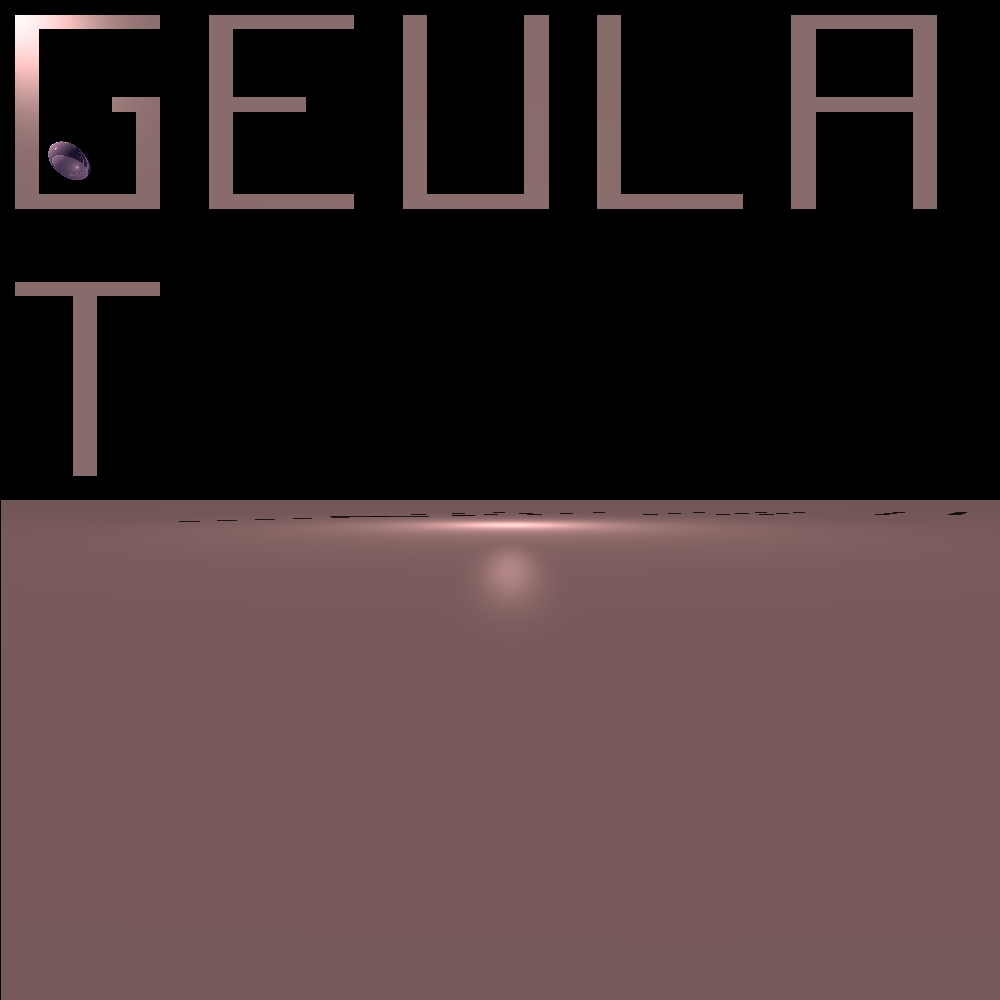
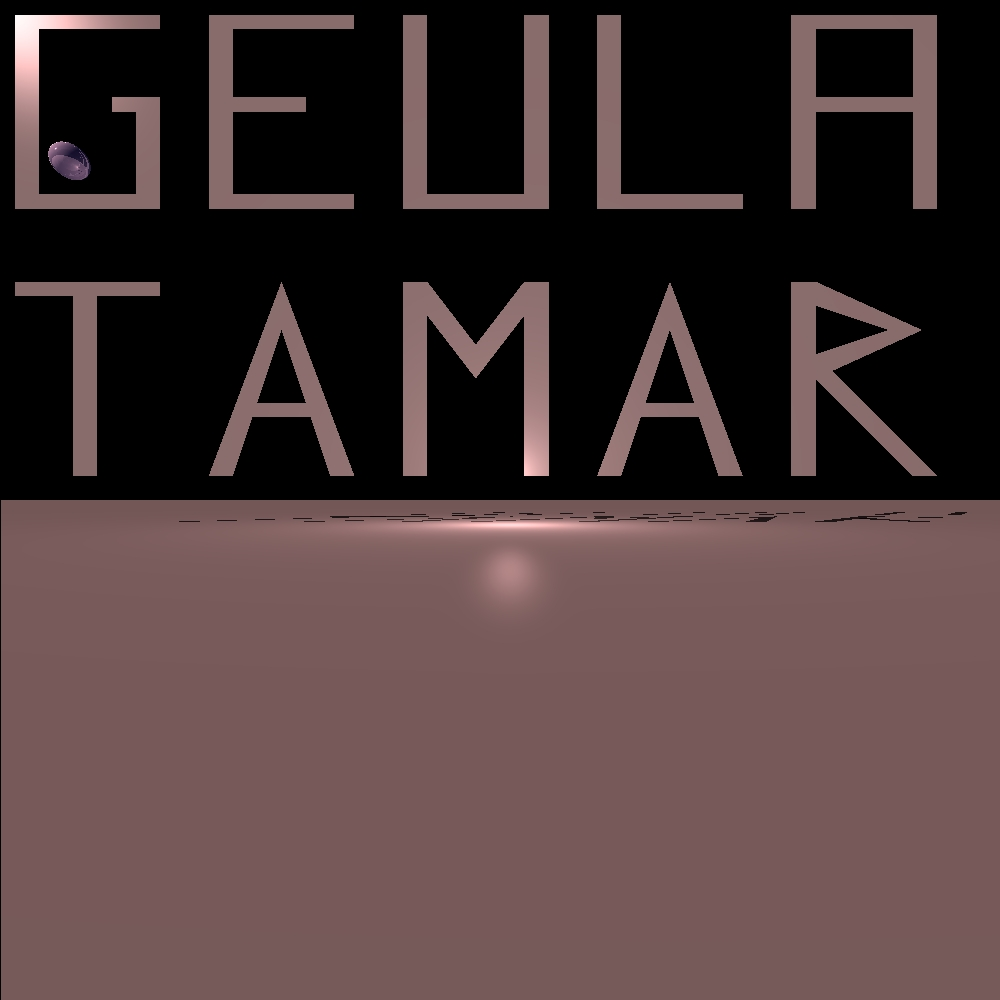
Mini Project 2 Name "TAMAR"

diff --git a/MavoProject/src/unittests/MiniProject2.java b/MavoProject/src/unittests/MiniProject2.java
@@ -167,7 +167,7 @@ public class MiniProject2 {
 		
 		Geometries a_group =new Geometries(a1, a2, a3,a4);
 
-
+		// Word TAMAR: letter T
 		Polygon t1 = new Polygon(new Color(20, 20, 20), new Material(0.5, 0.5, 300, 0.2, 0), //
 				new Point3D(-1000, -450, 30),//top left
 				new Point3D(-700, -450, 30),//top right
@@ -183,12 +183,131 @@ public class MiniProject2 {
 				new Point3D(-880, -50, 30));// bottom left
 		
 		
-		
-		
-		
-		
 		Geometries t_group =new Geometries(t1,t2);
 
+		// Word TAMAR: first letter A
+		//left bar of letter A1
+		Polygon Letter_a1 = new Polygon(new Color(20, 20, 20), new Material(0.5, 0.5, 300, 0.2, 0),
+				new Point3D(-600, -50, 30),
+				new Point3D(-450, -450, 30),
+				new Point3D(-450, -350, 30),
+				new Point3D(-550, -50, 30)
+				);
+		
+		//right bar of letter A1
+		Polygon Letter_a2 = new Polygon(new Color(20, 20, 20), new Material(0.5, 0.5, 300, 0.2, 0),
+				new Point3D(-450, -450, 30),
+				new Point3D(-300, -50, 30),
+				new Point3D(-350, -50, 30),
+				new Point3D(-450, -350, 30)
+				);
+		
+		//middle bar of letter A1
+		Polygon Letter_a3 = new Polygon(new Color(20, 20, 20), new Material(0.5, 0.5, 300, 0.2, 0),
+				new Point3D(-520, -200, 30),
+				new Point3D(-370, -200, 30),
+				new Point3D(-370, -170, 30),
+				new Point3D(-520, -170, 30)
+				);
+		
+		Geometries Letter_a = new Geometries (Letter_a1,Letter_a2,Letter_a3);
+		
+		// Word TAMAR: letter M
+		//left bar of letter M
+		Polygon Letter_m1 = new Polygon(new Color(20, 20, 20), new Material(0.5, 0.5, 300, 0.2, 0),
+				new Point3D(-200, -50, 30),
+				new Point3D(-150, -50, 30),
+				new Point3D(-150, -450, 30),
+				new Point3D(-200, -450, 30)
+				);
+		
+		//left angled bar of letter M
+		Polygon Letter_m2 = new Polygon(new Color(20, 20, 20), new Material(0.5, 0.5, 300, 0.2, 0),
+				new Point3D(-150, -450, 30),
+				new Point3D(-50, -320, 30),
+				new Point3D(-50, -250, 30),
+				new Point3D(-150, -380, 30)
+				);
+		
+		//right angled bar of letter M
+		Polygon Letter_m3 = new Polygon(new Color(20, 20, 20), new Material(0.5, 0.5, 300, 0.2, 0),
+				new Point3D(-50, -320, 30),
+				new Point3D(50, -450, 30),
+				new Point3D(50, -380, 30),
+				new Point3D(-50, -250, 30)
+				);
+		
+		//right bar of letter M
+		Polygon Letter_m4 = new Polygon(new Color(20, 20, 20), new Material(0.5, 0.5, 300, 0.2, 0),
+				new Point3D(100, -50, 30),
+				new Point3D(100, -450, 30),
+				new Point3D(50, -450, 30),
+				new Point3D(50, -50, 30)
+				);
+		
+		Geometries Letter_m = new Geometries (Letter_m1,Letter_m2,Letter_m3,Letter_m4);
+		
+		// Word TAMAR: second letter A
+		//left bar of letter A2
+				Polygon Letter_A1 = new Polygon(new Color(20, 20, 20), new Material(0.5, 0.5, 300, 0.2, 0),
+						new Point3D(-600+800, -50, 30),
+						new Point3D(-450+800, -450, 30),
+						new Point3D(-450+800, -350, 30),
+						new Point3D(-550+800, -50, 30)
+						);
+				
+				//right bar of letter A2
+				Polygon Letter_A2 = new Polygon(new Color(20, 20, 20), new Material(0.5, 0.5, 300, 0.2, 0),
+						new Point3D(-450+800, -450, 30),
+						new Point3D(-300+800, -50, 30),
+						new Point3D(-350+800, -50, 30),
+						new Point3D(-450+800, -350, 30)
+						);
+				
+				//middle bar of letter A2
+				Polygon Letter_A3 = new Polygon(new Color(20, 20, 20), new Material(0.5, 0.5, 300, 0.2, 0),
+						new Point3D(-520+800, -200, 30),
+						new Point3D(-370+800, -200, 30),
+						new Point3D(-370+800, -170, 30),
+						new Point3D(-520+800, -170, 30)
+						);
+				
+				Geometries Letter_A = new Geometries (Letter_A1,Letter_A2,Letter_A3);
+				
+				// Word TAMAR: letter R
+				//left bar of letter R
+				Polygon Letter_r1 = new Polygon(new Color(20, 20, 20), new Material(0.5, 0.5, 300, 0.2, 0),
+						new Point3D(600, -50, 30),
+						new Point3D(600, -450, 30),
+						new Point3D(650, -450, 30),
+						new Point3D(650, -50, 30)
+						);
+				
+				//upper angled bar of letter R
+				Polygon Letter_r2 = new Polygon(new Color(20, 20, 20), new Material(0.5, 0.5, 300, 0.2, 0),
+						new Point3D(650, -450, 30),
+						new Point3D(870, -350, 30),
+						new Point3D(800, -350, 30),
+						new Point3D(650, -400, 30)
+						);
+				
+				//lower angled bar of letter R
+				Polygon Letter_r3 = new Polygon(new Color(20, 20, 20), new Material(0.5, 0.5, 300, 0.2, 0),
+						new Point3D(870, -350, 30),
+						new Point3D(800, -350, 30),
+						new Point3D(650, -300, 30),
+						new Point3D(650, -250, 30)
+						);
+				
+				//right foot of letter R
+				Polygon Letter_r4 = new Polygon(new Color(20, 20, 20), new Material(0.5, 0.5, 300, 0.2, 0),
+						new Point3D(650, -300, 30),
+						new Point3D(900, -50, 30),
+						new Point3D(850, -50, 30),
+						new Point3D(650, -250, 30)
+						);
+				
+				Geometries Letter_r = new Geometries (Letter_r1,Letter_r2,Letter_r3,Letter_r4);
 		
 		Triangle tr1=  new Triangle(Color.BLACK, new Material(0.8, 0.2, 300),
                   new Point3D(-450, 150, 150), new Point3D(-150, 150, 150), new Point3D(-75, -75, 150));
@@ -208,7 +327,11 @@ public class MiniProject2 {
 				u_group,
 				l_group,
 				a_group,	
-				t_group
+				t_group,
+				Letter_a,
+				Letter_m,
+				Letter_A,
+				Letter_r
 				);
 		
 		Point3D pos = new Point3D(20, -50, 0);
